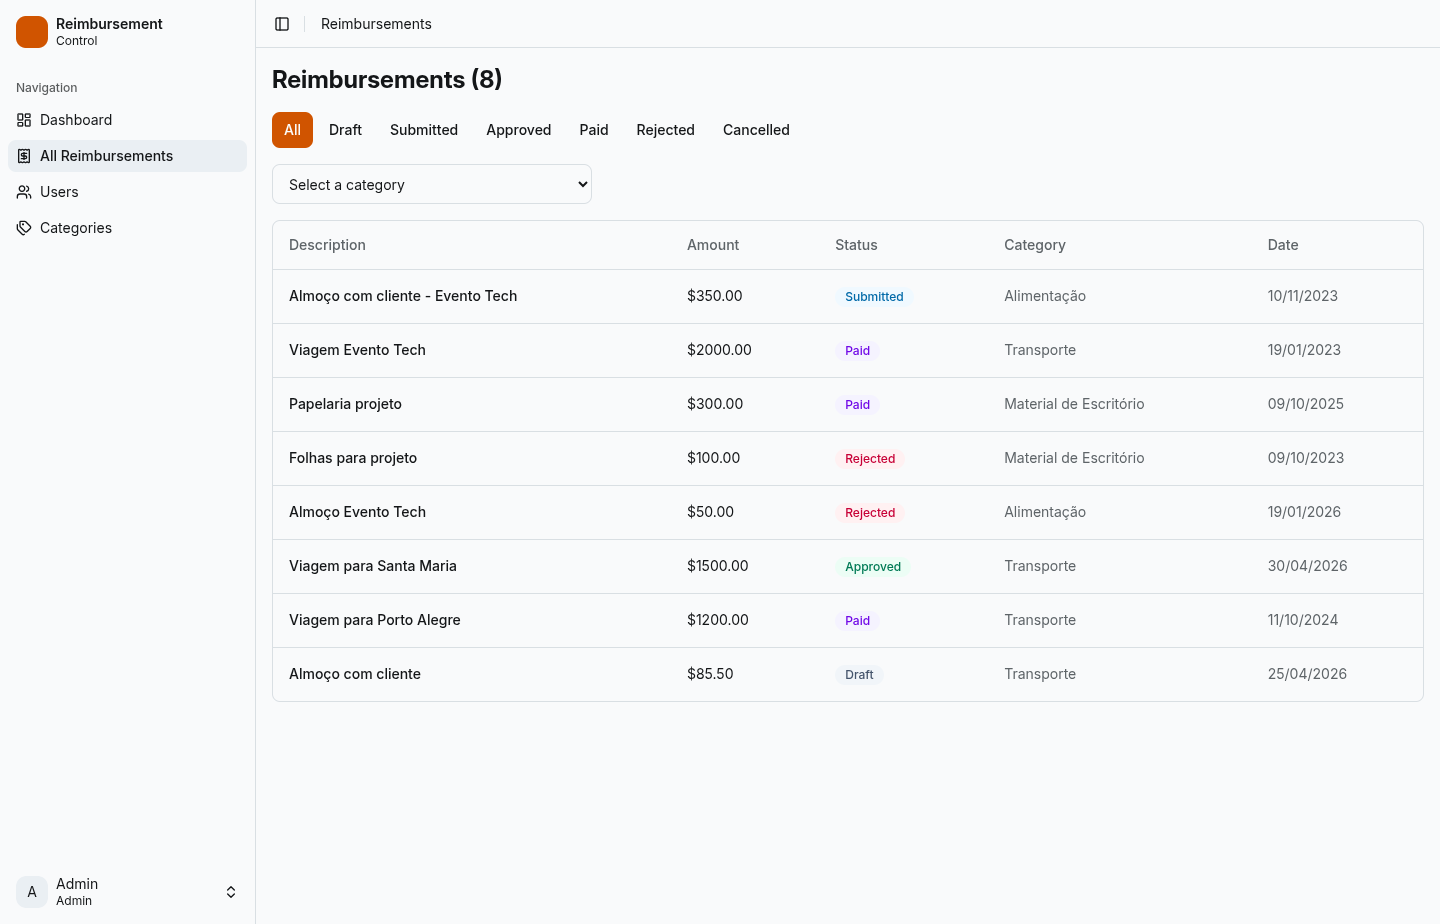
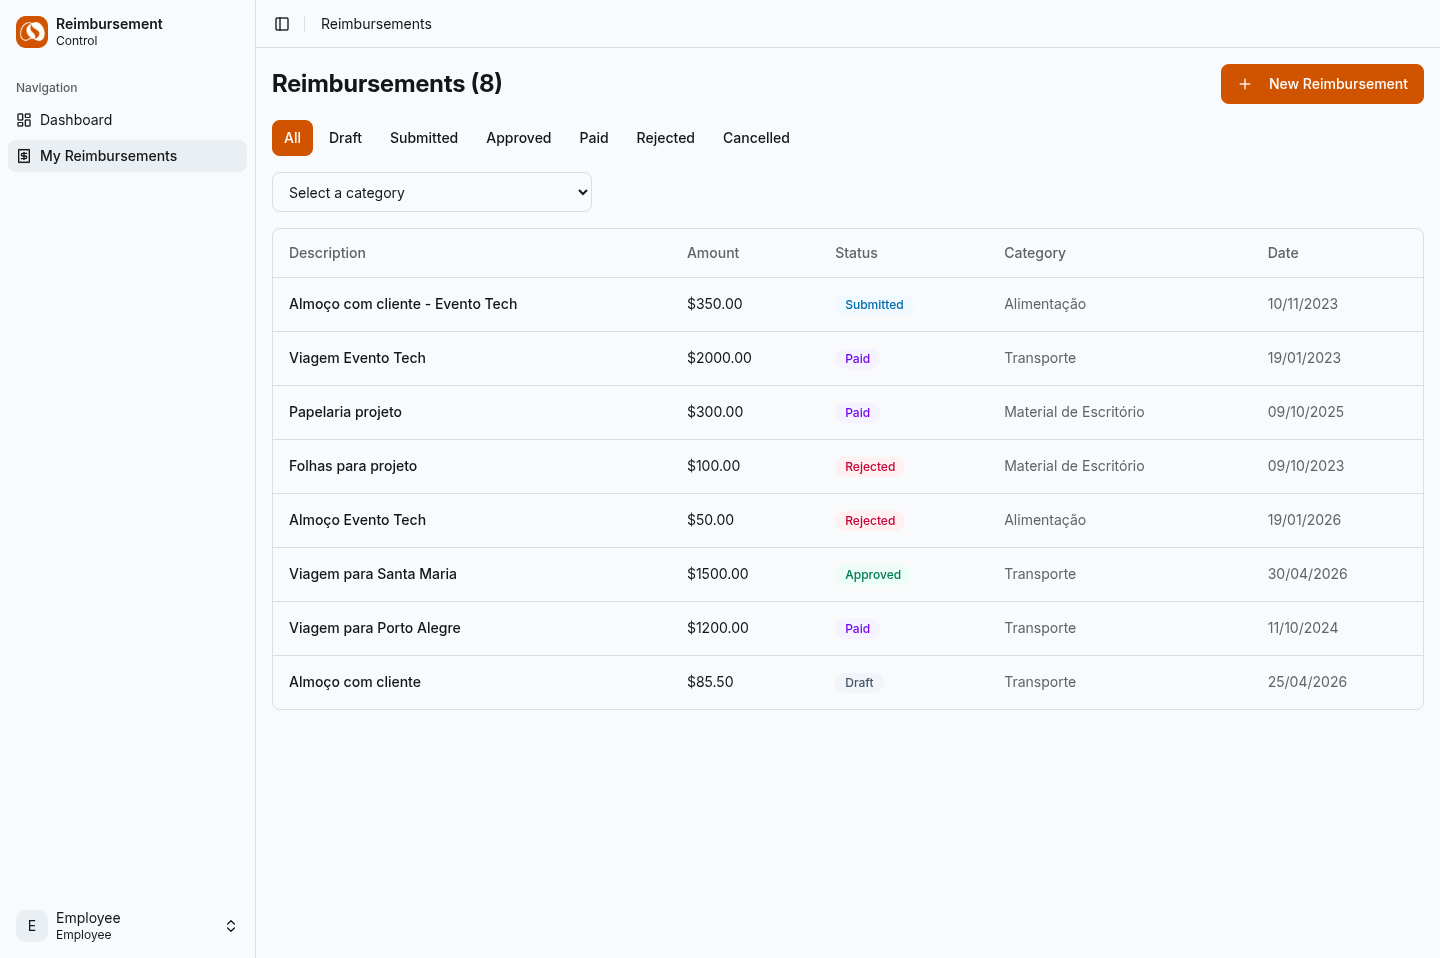
docs: update README hero image, remove redundant subtitle

diff --git a/README.md b/README.md
@@ -1,12 +1,6 @@
 <div align="center">
   <img alt="Sistema de Controle de Reembolsos – lista de solicitações" src="docs/images/reembolsos.png" width="800">
-
   <h1 align="center">Sistema de Controle de Reembolsos</h1>
-
-  <p align="center">
-    Fullstack reimbursement management — submit expenses, get approvals, track payments.
-  </p>
-
 </div>
 
 Aplicação fullstack de gestão de reembolsos — colaboradores enviam despesas,
